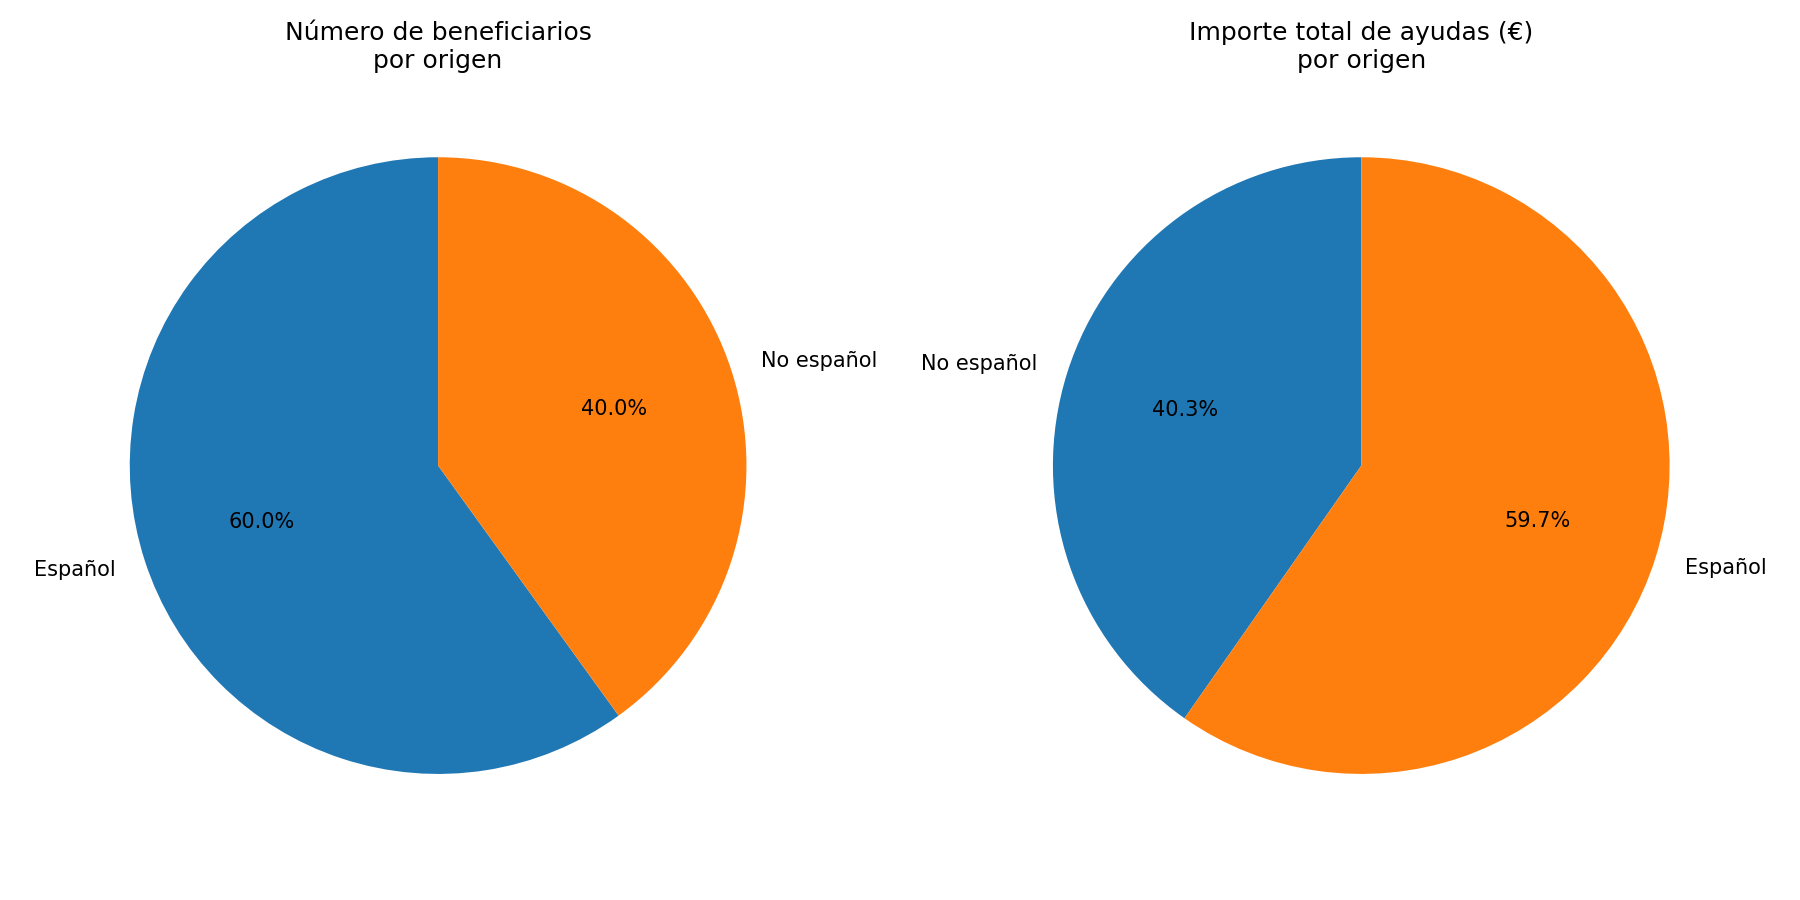
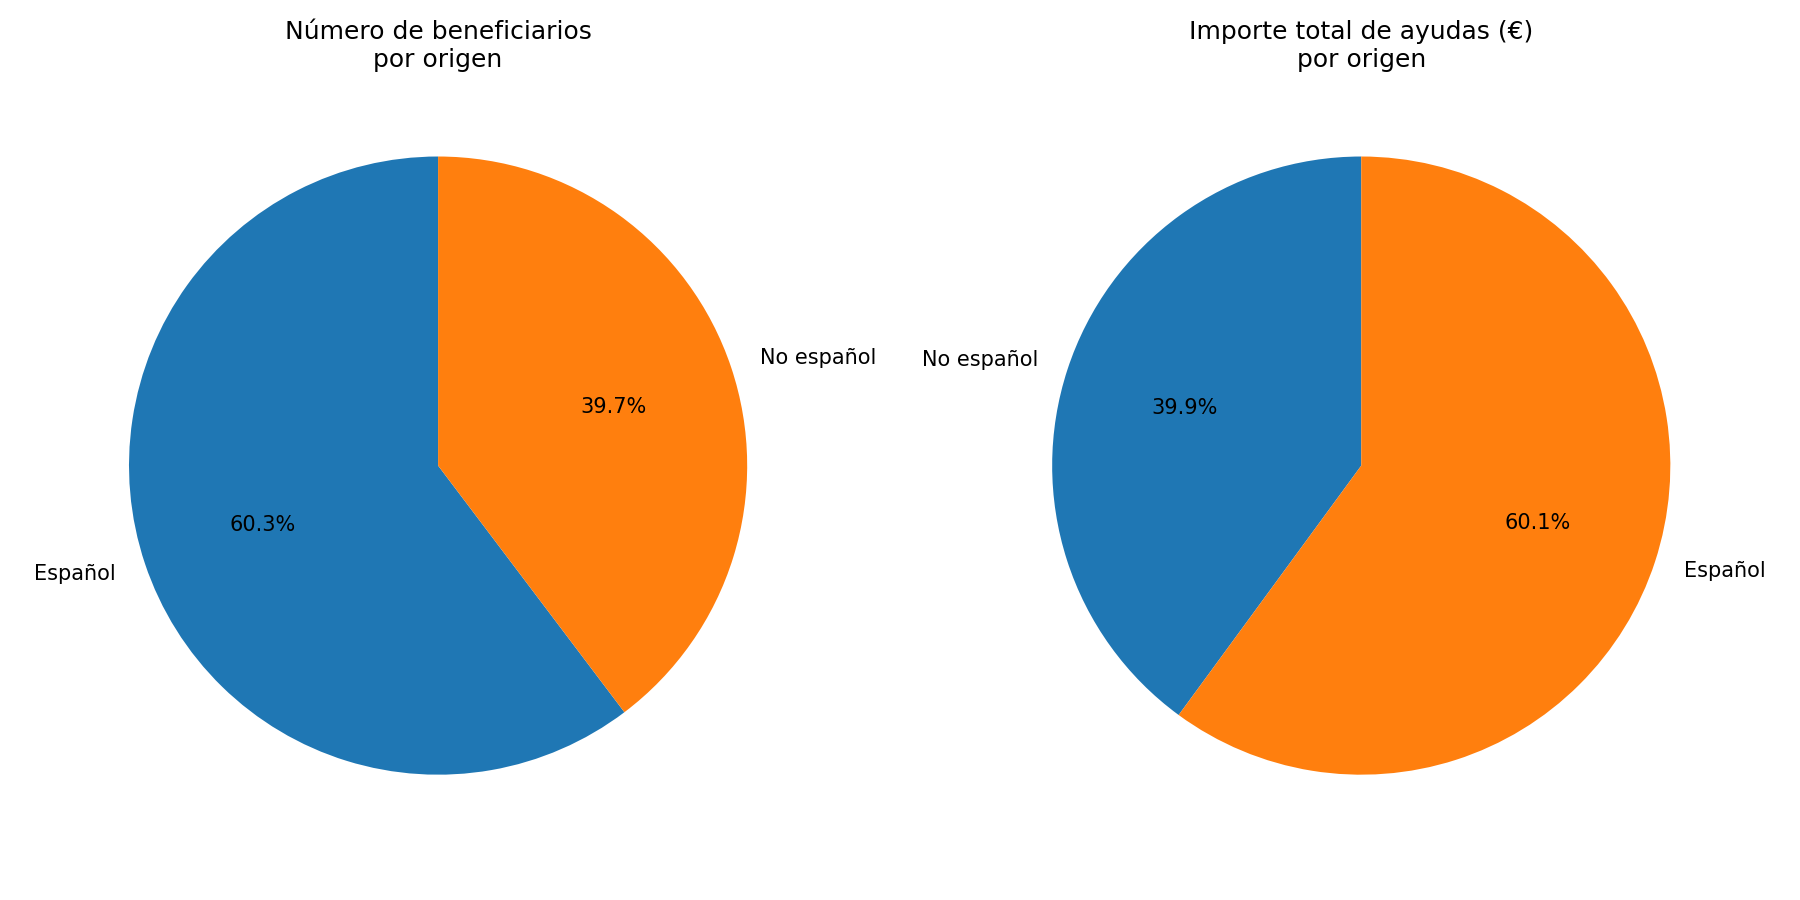
improve dataset

diff --git a/README.md b/README.md
@@ -22,13 +22,13 @@ El PDF original contiene la resolución con los admitidos definitivos (`jovenes_
 
 | Métrica | Total | Nombres españoles | Nombres no españoles |
 |---|---|---|---|
-| Beneficiarios | **4.035** | 2.419 (60,0 %) | 1.616 (40,0 %) |
-| Importe total | **10.016.896,38 €** | 5.981.787,48 € (59,7 %) | 4.035.108,90 € (40,3 %) |
-| Ayuda media | **2.482,50 €** | 2.472,83 € | 2.496,97 € |
+| Beneficiarios | **4.035** | 2.433 (60,3 %) | 1.602 (39,7 %) |
+| Importe total | **10.016.896,38 €** | 6.015.937,42 € (60,1 %) | 4.000.958,96 € (39,9 %) |
+| Ayuda media | **2.482,50 €** | 2.472,64 € | 2.497,48 € |
 | Ayuda máxima | **5.400,00 €** | — | — |
 | Ayuda mínima | **10,08 €** | — | — |
 
-**Conclusión principal:** el 60 % de los beneficiarios tiene nombres de apariencia española, frente al 40 % con nombres de apariencia no española. La distribución del importe total sigue la misma proporción (≈60 % / 40 %). La ayuda media es muy similar en ambos grupos (~2.480 €), lo que indica que el criterio de concesión es independiente del origen del nombre.
+**Conclusión principal:** el 60,3 % de los beneficiarios tiene nombres de apariencia española, frente al 39,7 % con nombres de apariencia no española. La distribución del importe total sigue la misma proporción (≈60 % / 40 %). La ayuda media es muy similar en ambos grupos (~2.480 €), lo que indica que el criterio de concesión es independiente del origen del nombre.
 
 ![Gráficas ayudas](graficas_ayudas.png)
 